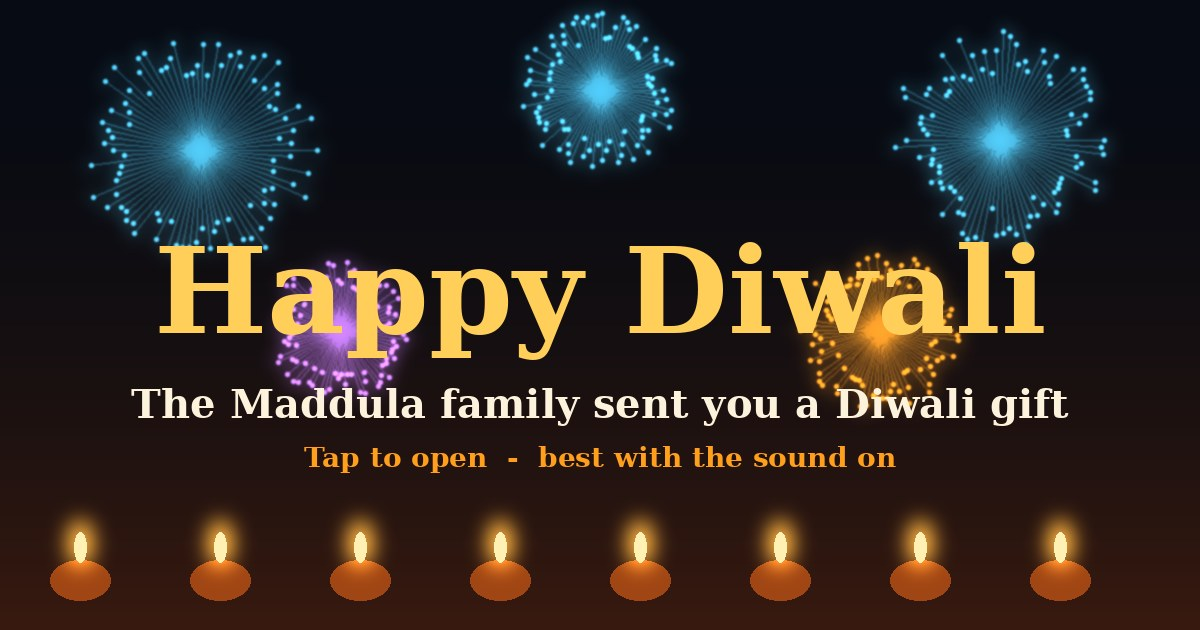
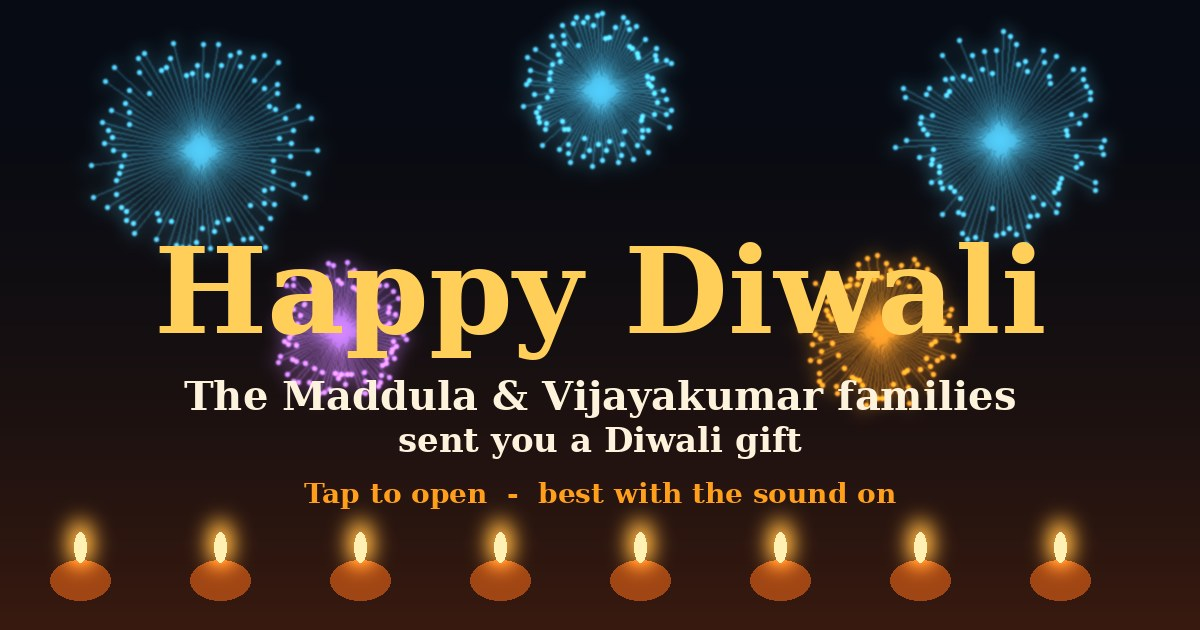
Diwali page: add Vijayakumar and Rajeshwasri, credit both families
Claude-Session: https://claude.ai/code/session_019n24HP1h8zNWrbtaSCTFtt

Changed region(s): [[0.0925, 0.6032, 0.8942, 0.8143]]

diff --git a/diwali/index.html b/diwali/index.html
@@ -3,11 +3,11 @@
 <head>
 <meta charset="UTF-8">
 <meta name="viewport" content="width=device-width, initial-scale=1, viewport-fit=cover">
-<title>The Maddula family sent you a Diwali gift 🪔</title>
+<title>The Maddula &amp; Vijayakumar families sent you a Diwali gift 🪔</title>
 <meta name="description" content="Tap to open your Diwali gift — best with the sound on.">
 <meta name="theme-color" content="#070b14">
 <meta property="og:type" content="website">
-<meta property="og:title" content="The Maddula family sent you a Diwali gift 🪔">
+<meta property="og:title" content="The Maddula &amp; Vijayakumar families sent you a Diwali gift 🪔">
 <meta property="og:description" content="Tap to open your Diwali gift — best with the sound on.">
 <meta property="og:url" content="https://wolfsbane9513.github.io/wolfsbane9513/diwali/">
 <meta property="og:image" content="https://wolfsbane9513.github.io/wolfsbane9513/diwali/og.jpg">
@@ -201,7 +201,7 @@
 
 <!-- INTRO -->
 <div id="intro" role="button" aria-label="Open your Diwali gift" tabindex="0">
-  <p class="from-line">The <b>Maddula family</b> has sent you a Diwali gift</p>
+  <p class="from-line">The <b>Maddula &amp; Vijayakumar families</b> have sent you a Diwali gift</p>
   <div class="gift" id="gift">
     <div class="glow"></div>
     <div class="box"><div class="pattern"></div></div>
@@ -289,7 +289,7 @@
 
 <script>
 (() => {
-  const FAMILY = ["Maddula Ramakrishna","Maddula Ramadevi","Maddula Ravi Prakash","Sruthi Vijayakumar","Maddula Yash Vir"];
+  const FAMILY = ["Maddula Ramakrishna","Maddula Ramadevi","Vijayakumar","Rajeshwasri","Maddula Ravi Prakash","Sruthi Vijayakumar","Maddula Yash Vir"];
   const $ = s => document.querySelector(s);
   const rnd=(a,b)=>a+Math.random()*(b-a);
   const reduce = matchMedia('(prefers-reduced-motion: reduce)').matches;
@@ -631,10 +631,10 @@
 
   /* ===== SHARE ===== */
   const url=location.href.split('#')[0].split('?')[0];
-  const shareText='🪔 The Maddula family has sent you a Diwali gift! Tap to open — best with the sound on ✨';
+  const shareText='🪔 The Maddula & Vijayakumar families have sent you a Diwali gift! Tap to open — best with the sound on ✨';
   function toast(m){const t=$('#toast');t.textContent=m;t.classList.add('show');setTimeout(()=>t.classList.remove('show'),1800)}
   async function copy(){try{await navigator.clipboard.writeText(shareText+'\n'+url);toast('Link copied!')}catch(e){prompt('Copy this link:',url)}}
-  $('#shareBtn').onclick=async e=>{e.stopPropagation(); if(navigator.share){try{await navigator.share({title:'Happy Diwali from the Maddula family',text:shareText,url})}catch(err){}} else copy()};
+  $('#shareBtn').onclick=async e=>{e.stopPropagation(); if(navigator.share){try{await navigator.share({title:'Happy Diwali from the Maddula & Vijayakumar families',text:shareText,url})}catch(err){}} else copy()};
   $('#waBtn').onclick=e=>{e.stopPropagation(); window.open('https://wa.me/?text='+encodeURIComponent(shareText+'\n'+url),'_blank')};
   $('#copyBtn').onclick=e=>{e.stopPropagation(); copy()};
   $('#replayBtn').onclick=e=>{e.stopPropagation(); resetAll(); setTimeout(runStory,400)};
